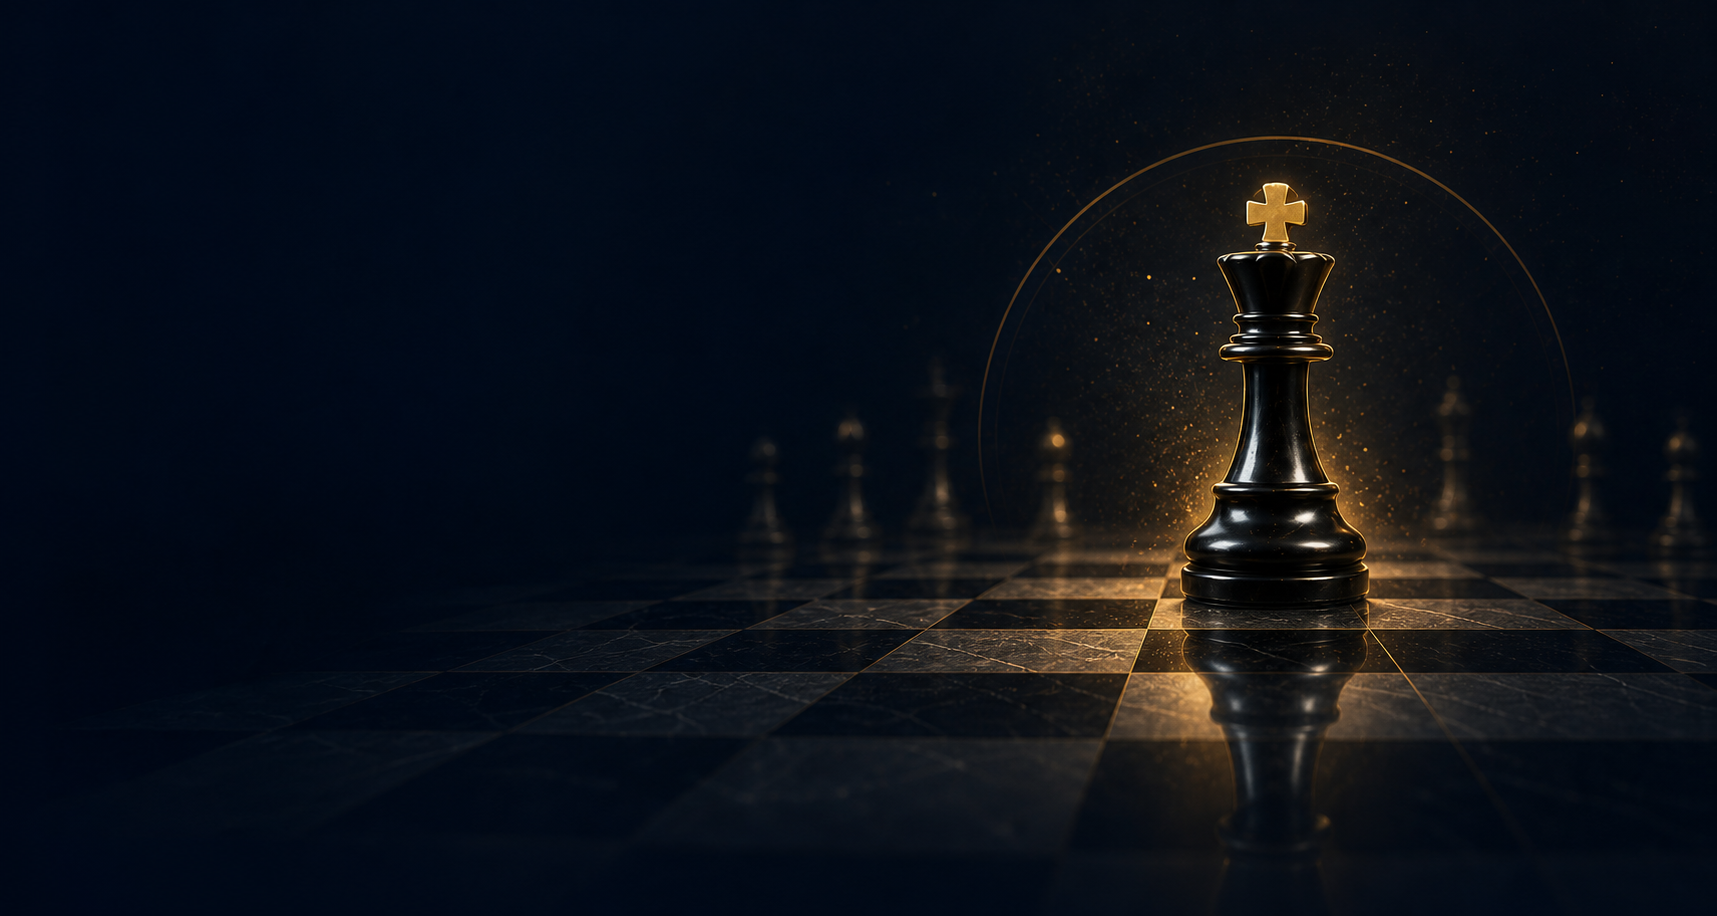
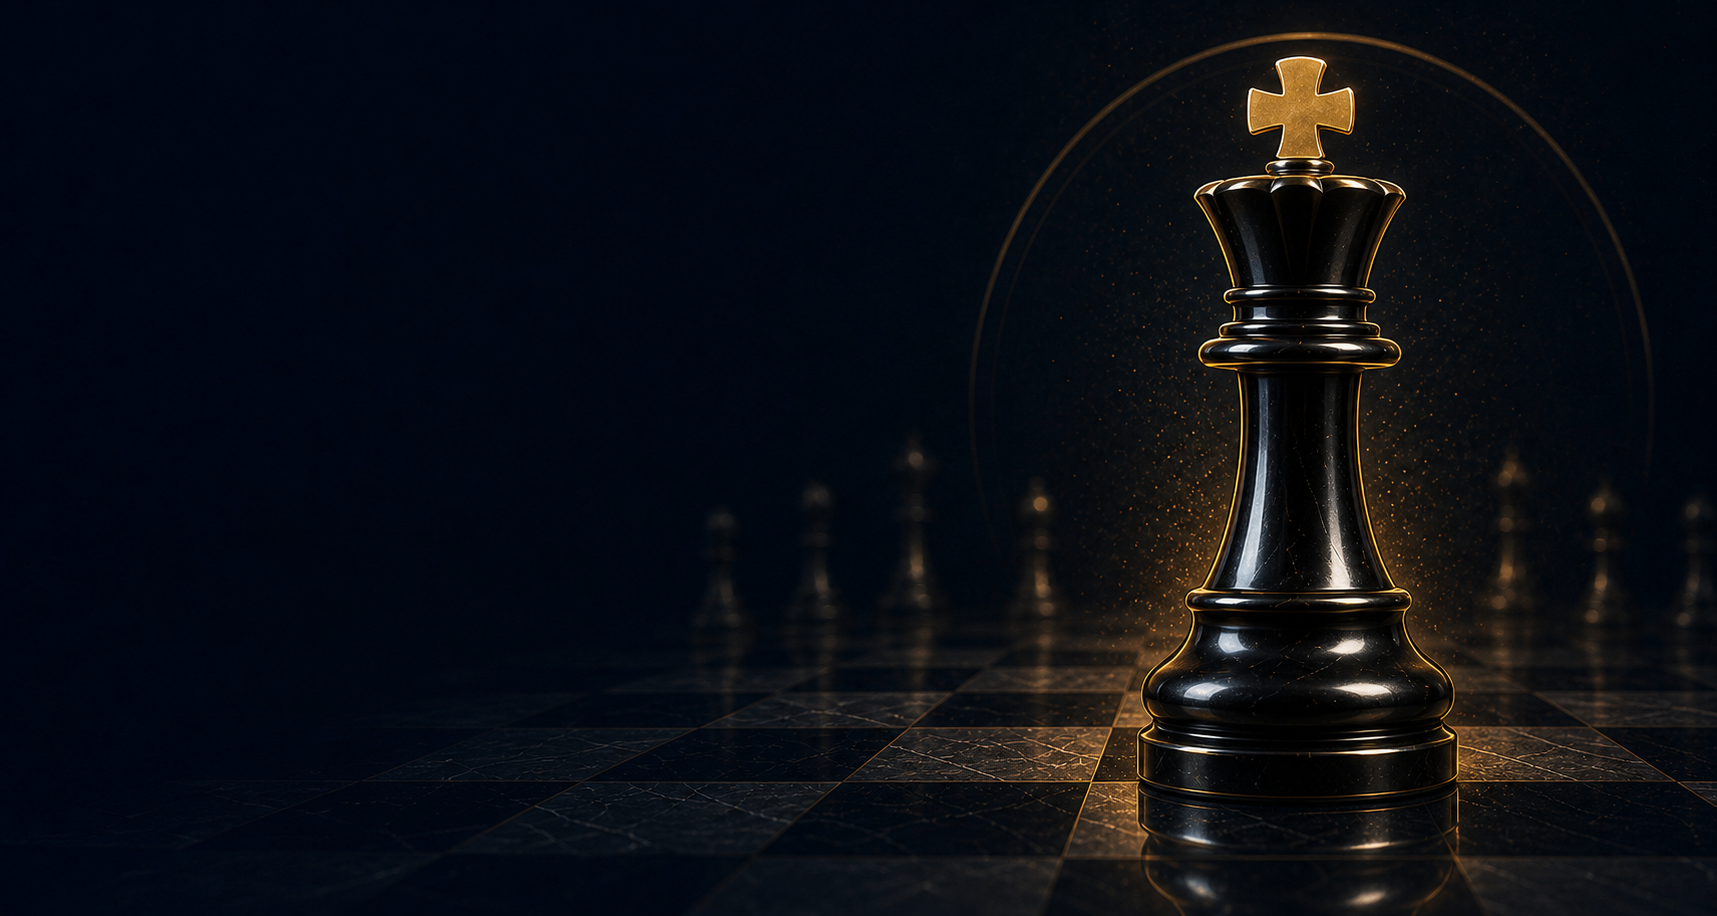
fix: fit premium dashboard and upgrade visual identity

diff --git a/portable/windows/TheKeyLauncher.cs b/portable/windows/TheKeyLauncher.cs
@@ -122,6 +122,9 @@ namespace TheKeyPortable
         private readonly TextBlock status;
         private TextBlock sourceState;
         private TextBlock recentActivity;
+        private TextBlock recentTime;
+        private TextBlock recentType;
+        private TextBlock recentState;
         private readonly Panel actions;
         private readonly Button verifyProjectButton;
         private readonly Button repairProjectButton;
@@ -133,11 +136,16 @@ namespace TheKeyPortable
             backend = Path.Combine(root, "core", "THEKEY-Core", "THEKEY-Core.exe");
 
             Title = "THEKEY — THE KING OF CHECKMATE";
-            Width = 1440;
-            Height = 900;
-            MinWidth = 1180;
-            MinHeight = 720;
-            WindowStartupLocation = WindowStartupLocation.CenterScreen;
+            Rect workAreaBounds = SystemParameters.WorkArea;
+            Width = Math.Min(1440, Math.Max(980, workAreaBounds.Width - 40));
+            Height = Math.Min(900, Math.Max(600, workAreaBounds.Height - 40));
+            MinWidth = 980;
+            MinHeight = 600;
+            MaxWidth = workAreaBounds.Width;
+            MaxHeight = workAreaBounds.Height;
+            WindowStartupLocation = WindowStartupLocation.Manual;
+            Left = workAreaBounds.Left + Math.Max(0, (workAreaBounds.Width - Width) / 2);
+            Top = workAreaBounds.Top + Math.Max(0, (workAreaBounds.Height - Height) / 2);
             WindowStyle = WindowStyle.None;
             ResizeMode = ResizeMode.CanResizeWithGrip;
             FontFamily = new FontFamily("Segoe UI Variable Text, Segoe UI");
@@ -146,6 +154,11 @@ namespace TheKeyPortable
             Background = new LinearGradientBrush(
                 Color.FromRgb(6, 14, 26), Color.FromRgb(2, 8, 17), 90);
             Foreground = Brushes.White;
+            string appIconPath = Path.Combine(root, "THEKEY_app_icon.png");
+            if (File.Exists(appIconPath))
+            {
+                Icon = BitmapFrame.Create(new Uri(appIconPath, UriKind.Absolute));
+            }
 
             Grid shell = new Grid();
             shell.RowDefinitions.Add(new RowDefinition { Height = new GridLength(48) });
@@ -301,14 +314,7 @@ namespace TheKeyPortable
             grid.ColumnDefinitions.Add(new ColumnDefinition { Width = new GridLength(1, GridUnitType.Star) });
             grid.ColumnDefinitions.Add(new ColumnDefinition { Width = GridLength.Auto });
             StackPanel brand = new StackPanel { Orientation = Orientation.Horizontal, Margin = new Thickness(18, 0, 0, 0) };
-            TextBlock crown = new TextBlock
-            {
-                Text = "\u265A",
-                FontSize = 23,
-                Foreground = new SolidColorBrush(Color.FromRgb(230, 179, 69)),
-                VerticalAlignment = VerticalAlignment.Center
-            };
-            brand.Children.Add(crown);
+            brand.Children.Add(CreateBrandIcon(25));
             TextBlock title = new TextBlock
             {
                 Text = "THEKEY  —  THE KING OF CHECKMATE",
@@ -376,14 +382,7 @@ namespace TheKeyPortable
                 Background = new SolidColorBrush(Color.FromArgb(80, 32, 24, 11)),
                 HorizontalAlignment = HorizontalAlignment.Center
             };
-            seal.Child = new TextBlock
-            {
-                Text = "\u265A",
-                FontSize = 50,
-                Foreground = new SolidColorBrush(Color.FromRgb(231, 180, 70)),
-                HorizontalAlignment = HorizontalAlignment.Center,
-                VerticalAlignment = VerticalAlignment.Center
-            };
+            seal.Child = CreateBrandIcon(68);
             identity.Children.Add(seal);
             identity.Children.Add(new TextBlock
             {
@@ -455,6 +454,31 @@ namespace TheKeyPortable
             layout.Children.Add(health);
             sidebar.Child = layout;
             return sidebar;
+        }
+
+        private FrameworkElement CreateBrandIcon(double size)
+        {
+            string path = Path.Combine(root, "THEKEY_app_icon.png");
+            if (File.Exists(path))
+            {
+                return new Image
+                {
+                    Source = new BitmapImage(new Uri(path, UriKind.Absolute)),
+                    Width = size,
+                    Height = size,
+                    Stretch = Stretch.Uniform,
+                    HorizontalAlignment = HorizontalAlignment.Center,
+                    VerticalAlignment = VerticalAlignment.Center
+                };
+            }
+            return new TextBlock
+            {
+                Text = "\u265A",
+                FontSize = size * 0.72,
+                Foreground = new SolidColorBrush(Color.FromRgb(231, 180, 70)),
+                HorizontalAlignment = HorizontalAlignment.Center,
+                VerticalAlignment = VerticalAlignment.Center
+            };
         }
 
         private Button CreateNavButton(string symbol, string label, bool selected, RoutedEventHandler action)
@@ -610,16 +634,41 @@ namespace TheKeyPortable
                 Foreground = new SolidColorBrush(Color.FromRgb(226, 182, 84)),
                 LineHeight = 18
             });
+            Grid gauge = new Grid
+            {
+                Width = 146,
+                Height = 146,
+                Margin = new Thickness(0, 15, 0, 5),
+                HorizontalAlignment = HorizontalAlignment.Center
+            };
+            Canvas ticks = new Canvas { Width = 146, Height = 146 };
+            for (int i = 0; i < 25; i++)
+            {
+                Border tick = new Border
+                {
+                    Width = 3,
+                    Height = 11,
+                    CornerRadius = new CornerRadius(1.5),
+                    Background = new SolidColorBrush(
+                        i < 18 ? Color.FromRgb(86, 220, 108) : Color.FromRgb(209, 183, 61)),
+                    Opacity = i < 22 ? 0.85 : 0.28
+                };
+                Canvas.SetLeft(tick, 71.5);
+                Canvas.SetTop(tick, 4);
+                tick.RenderTransform = new RotateTransform(-120 + (240.0 * i / 24.0), 1.5, 69);
+                ticks.Children.Add(tick);
+            }
+            gauge.Children.Add(ticks);
             Border ring = new Border
             {
-                Width = 106,
-                Height = 106,
-                CornerRadius = new CornerRadius(53),
+                Width = 94,
+                Height = 94,
+                CornerRadius = new CornerRadius(47),
                 BorderBrush = File.Exists(backend) ? new SolidColorBrush(Color.FromRgb(101, 220, 112)) : new SolidColorBrush(Color.FromRgb(255, 126, 126)),
                 BorderThickness = new Thickness(3),
                 Background = new SolidColorBrush(Color.FromArgb(55, 61, 150, 85)),
-                Margin = new Thickness(0, 22, 0, 12),
                 HorizontalAlignment = HorizontalAlignment.Center,
+                VerticalAlignment = VerticalAlignment.Center,
                 Effect = new DropShadowEffect { Color = Color.FromRgb(99, 220, 111), BlurRadius = 22, ShadowDepth = 0, Opacity = 0.3 }
             };
             ring.Child = new TextBlock
@@ -630,7 +679,8 @@ namespace TheKeyPortable
                 HorizontalAlignment = HorizontalAlignment.Center,
                 VerticalAlignment = VerticalAlignment.Center
             };
-            content.Children.Add(ring);
+            gauge.Children.Add(ring);
+            content.Children.Add(gauge);
             content.Children.Add(new TextBlock
             {
                 Text = File.Exists(backend) ? "LISTO / READY" : "BLOQUEADO / BLOCKED",
@@ -679,6 +729,7 @@ namespace TheKeyPortable
             Grid layout = new Grid();
             layout.RowDefinitions.Add(new RowDefinition { Height = GridLength.Auto });
             layout.RowDefinitions.Add(new RowDefinition { Height = GridLength.Auto });
+            layout.RowDefinitions.Add(new RowDefinition { Height = GridLength.Auto });
             Border header = new Border
             {
                 Padding = new Thickness(16, 9, 16, 9),
@@ -693,17 +744,56 @@ namespace TheKeyPortable
                 Foreground = new SolidColorBrush(Color.FromRgb(191, 202, 220))
             };
             layout.Children.Add(header);
-            recentActivity = new TextBlock
-            {
-                Text = "—   Sin actividad todavía / No activity yet. Selecciona una aplicación o ejecuta la demo.",
-                Padding = new Thickness(16, 13, 16, 13),
-                Foreground = new SolidColorBrush(Color.FromRgb(142, 158, 184)),
-                FontSize = 11
-            };
-            Grid.SetRow(recentActivity, 1);
-            layout.Children.Add(recentActivity);
+            Grid columns = CreateActivityGrid();
+            columns.Background = new SolidColorBrush(Color.FromRgb(9, 22, 38));
+            columns.Children.Add(CreateActivityCell("Hora / Time", 0, true));
+            columns.Children.Add(CreateActivityCell("Tipo / Type", 1, true));
+            columns.Children.Add(CreateActivityCell("Actividad / Activity", 2, true));
+            columns.Children.Add(CreateActivityCell("Estado / Status", 3, true));
+            Grid.SetRow(columns, 1);
+            layout.Children.Add(columns);
+
+            Grid row = CreateActivityGrid();
+            row.Margin = new Thickness(0, 1, 0, 0);
+            recentTime = CreateActivityCell("--:--:--", 0, false);
+            recentType = CreateActivityCell("Sistema / System", 1, false);
+            recentActivity = CreateActivityCell("Sin actividad todavía / No activity yet", 2, false);
+            recentState = CreateActivityCell("Esperando / Waiting", 3, false);
+            recentState.Foreground = new SolidColorBrush(Color.FromRgb(216, 177, 83));
+            row.Children.Add(recentTime);
+            row.Children.Add(recentType);
+            row.Children.Add(recentActivity);
+            row.Children.Add(recentState);
+            Grid.SetRow(row, 2);
+            layout.Children.Add(row);
             panel.Child = layout;
             return panel;
+        }
+
+        private Grid CreateActivityGrid()
+        {
+            Grid grid = new Grid { MinHeight = 34 };
+            grid.ColumnDefinitions.Add(new ColumnDefinition { Width = new GridLength(125) });
+            grid.ColumnDefinitions.Add(new ColumnDefinition { Width = new GridLength(170) });
+            grid.ColumnDefinitions.Add(new ColumnDefinition { Width = new GridLength(1, GridUnitType.Star) });
+            grid.ColumnDefinitions.Add(new ColumnDefinition { Width = new GridLength(150) });
+            return grid;
+        }
+
+        private TextBlock CreateActivityCell(string text, int column, bool header)
+        {
+            TextBlock cell = new TextBlock
+            {
+                Text = text,
+                Padding = new Thickness(14, 9, 10, 8),
+                FontSize = header ? 10 : 11,
+                FontWeight = header ? FontWeights.SemiBold : FontWeights.Normal,
+                Foreground = new SolidColorBrush(
+                    header ? Color.FromRgb(139, 156, 182) : Color.FromRgb(185, 197, 216)),
+                TextTrimming = TextTrimming.CharacterEllipsis
+            };
+            Grid.SetColumn(cell, column);
+            return cell;
         }
 
         private Border BuildHeader()
@@ -1140,9 +1230,11 @@ namespace TheKeyPortable
             }
             if (recentActivity != null)
             {
-                recentActivity.Text = DateTime.Now.ToString("HH:mm:ss") +
-                    "   ANÁLISIS / ANALYSIS   " + Path.GetFileName(selectedProject) +
-                    "   En curso / Running";
+                recentTime.Text = DateTime.Now.ToString("HH:mm:ss");
+                recentType.Text = "Análisis / Analysis";
+                recentActivity.Text = Path.GetFileName(selectedProject);
+                recentState.Text = "En curso / Running";
+                recentState.Foreground = new SolidColorBrush(Color.FromRgb(216, 177, 83));
             }
             RunBackend(
                 "project inspect --source " + QuoteArgument(selectedProject),
@@ -1330,8 +1422,11 @@ namespace TheKeyPortable
             SetStatus(runningStatus, true);
             if (recentActivity != null)
             {
-                recentActivity.Text = DateTime.Now.ToString("HH:mm:ss") +
-                    "   " + runningStatus + "   En curso / Running";
+                recentTime.Text = DateTime.Now.ToString("HH:mm:ss");
+                recentType.Text = arguments.Split(' ')[0].ToUpperInvariant();
+                recentActivity.Text = runningStatus;
+                recentState.Text = "En curso / Running";
+                recentState.Foreground = new SolidColorBrush(Color.FromRgb(216, 177, 83));
             }
             output.Text = "> THEKEY-Core.exe " + arguments + "\r\n\r\n";
 
@@ -1372,11 +1467,11 @@ namespace TheKeyPortable
                     SetStatus(exitCode == 0 ? "PASS · VERIFICADO / VERIFIED" : "FALLO / FAILED", exitCode == 0);
                     if (recentActivity != null)
                     {
-                        recentActivity.Text = DateTime.Now.ToString("HH:mm:ss") +
-                            "   " + arguments.Split(' ')[0].ToUpperInvariant() +
-                            "   " + (exitCode == 0 ? "Éxito / Success" : "Bloqueado / Blocked") +
-                            "   Exit " + exitCode;
-                        recentActivity.Foreground = new SolidColorBrush(
+                        recentTime.Text = DateTime.Now.ToString("HH:mm:ss");
+                        recentType.Text = arguments.Split(' ')[0].ToUpperInvariant();
+                        recentActivity.Text = "Exit " + exitCode + " · " + arguments;
+                        recentState.Text = exitCode == 0 ? "Éxito / Success" : "Bloqueado / Blocked";
+                        recentState.Foreground = new SolidColorBrush(
                             exitCode == 0 ? Color.FromRgb(91, 221, 126) : Color.FromRgb(255, 126, 126));
                     }
                     SetActionsEnabled(true);

diff --git a/tests/unit/test_portable_entry.py b/tests/unit/test_portable_entry.py
@@ -9,6 +9,7 @@ ENTRY_PATH = ROOT / "scripts" / "portable_entry.py"
 LAUNCHER_PATH = ROOT / "portable" / "windows" / "TheKeyLauncher.cs"
 PORTABLE_BUILD_PATH = ROOT / "scripts" / "build-portable.ps1"
 HERO_PATH = ROOT / "portable" / "windows" / "assets" / "THEKEY_hero_chess.png"
+ICON_PATH = ROOT / "portable" / "windows" / "assets" / "THEKEY_app_icon.png"
 
 
 def _load_entry():
@@ -95,10 +96,16 @@ def test_premium_launcher_uses_packaged_hero_and_real_activity_state():
 
     assert HERO_PATH.is_file()
     assert HERO_PATH.stat().st_size > 100_000
+    assert ICON_PATH.is_file()
+    assert ICON_PATH.stat().st_size > 100_000
     assert "BuildSidebar()" in launcher
     assert "BuildHero()" in launcher
     assert "BuildSystemPanel()" in launcher
     assert "Sin actividad todavía / No activity yet" in launcher
     assert 'sourceHero = Join-Path $repoRoot' in build
+    assert 'sourceIcon = Join-Path $repoRoot' in build
     assert "Copy-Item -LiteralPath $sourceHero -Destination $packageRoot" in build
+    assert "Copy-Item -LiteralPath $sourceIcon -Destination $packageRoot" in build
+    assert "SystemParameters.WorkArea" in launcher
+    assert "WindowStartupLocation.Manual" in launcher
     assert "100%" not in launcher

diff --git a/portable/windows/assets/README.md b/portable/windows/assets/README.md
@@ -6,4 +6,9 @@ used only as a composition, palette, and mood reference. The generated asset
 contains no copied interface, text, logo, or watermark and is distributed only
 as the portable launcher's background artwork.
 
+`THEKEY_app_icon.png` was generated in the same workflow as a project-owned
+taskbar/application mark. It combines a chess king and keyhole shield without
+third-party text or logos and is converted into the embedded Windows icon by
+the portable build script.
+
 `THEKEY_cinematic_loop_5s.mp4` remains the existing portable intro asset.